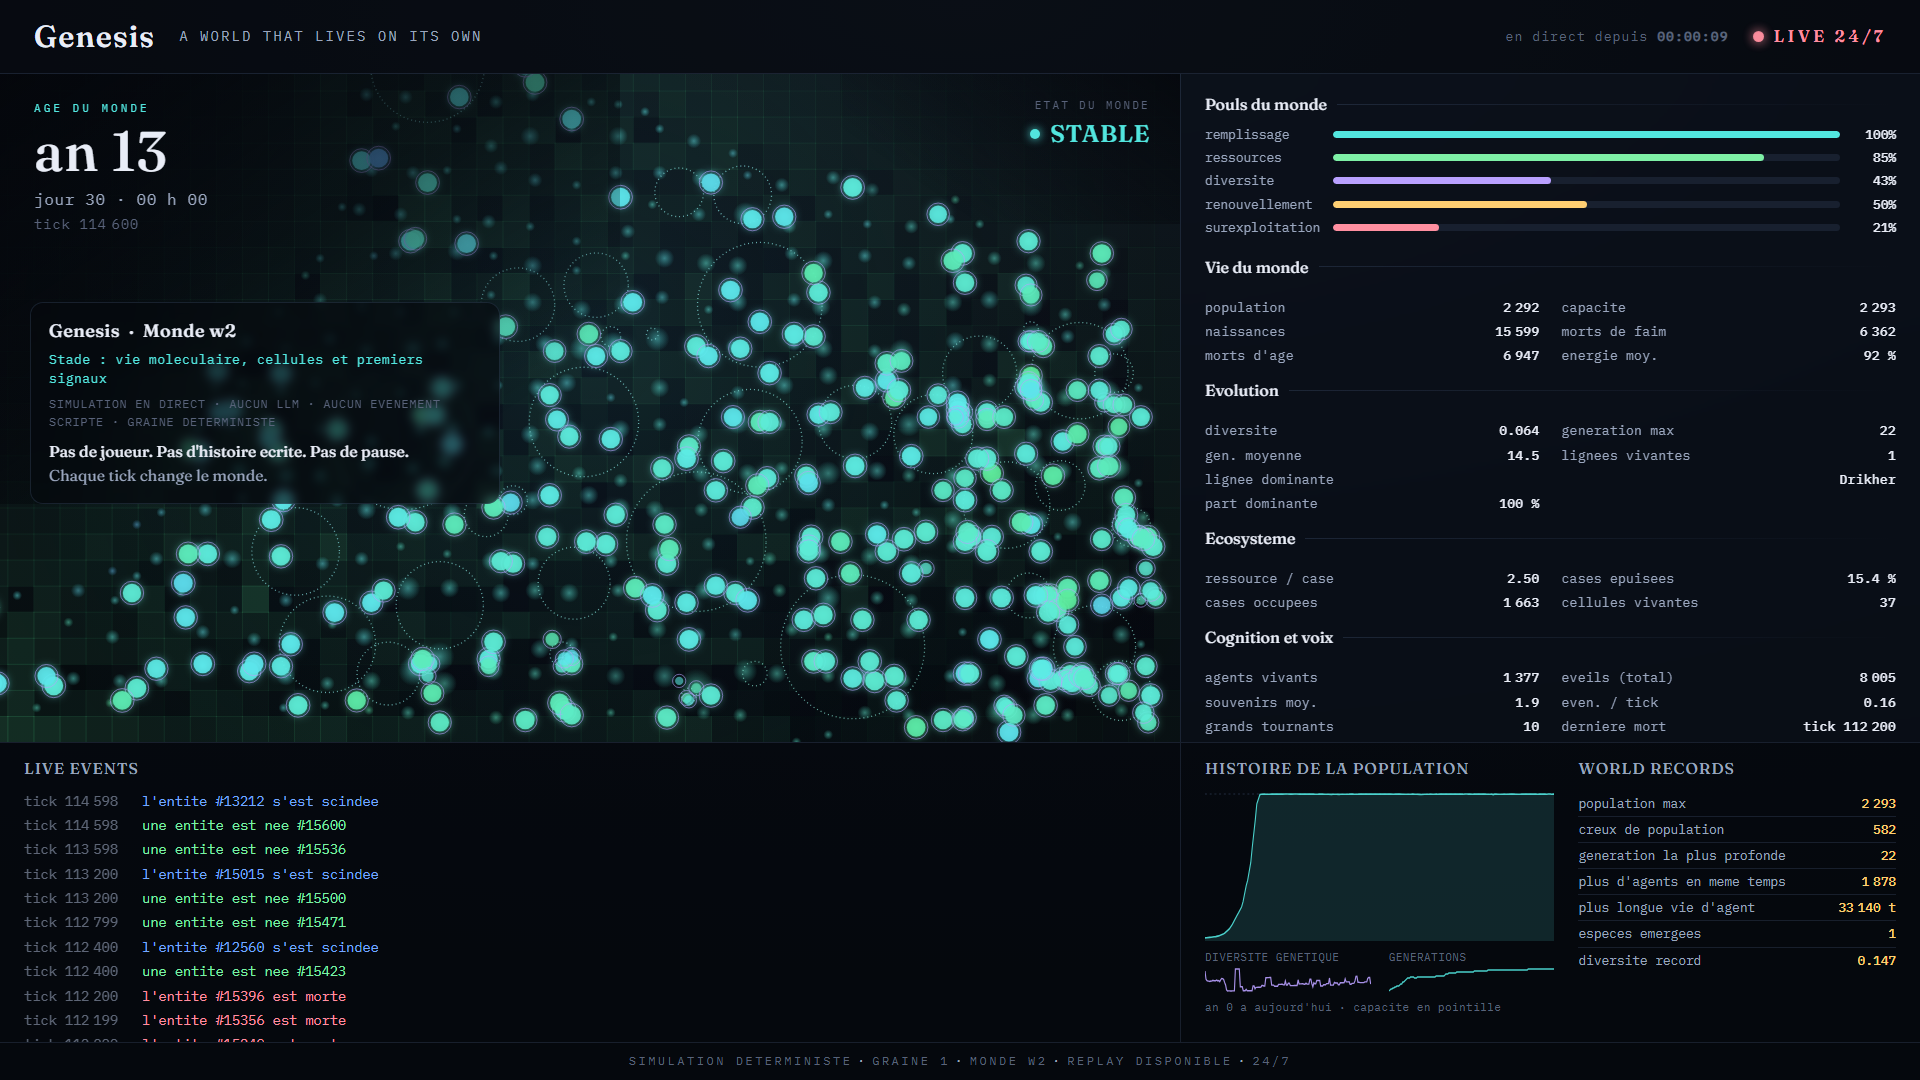
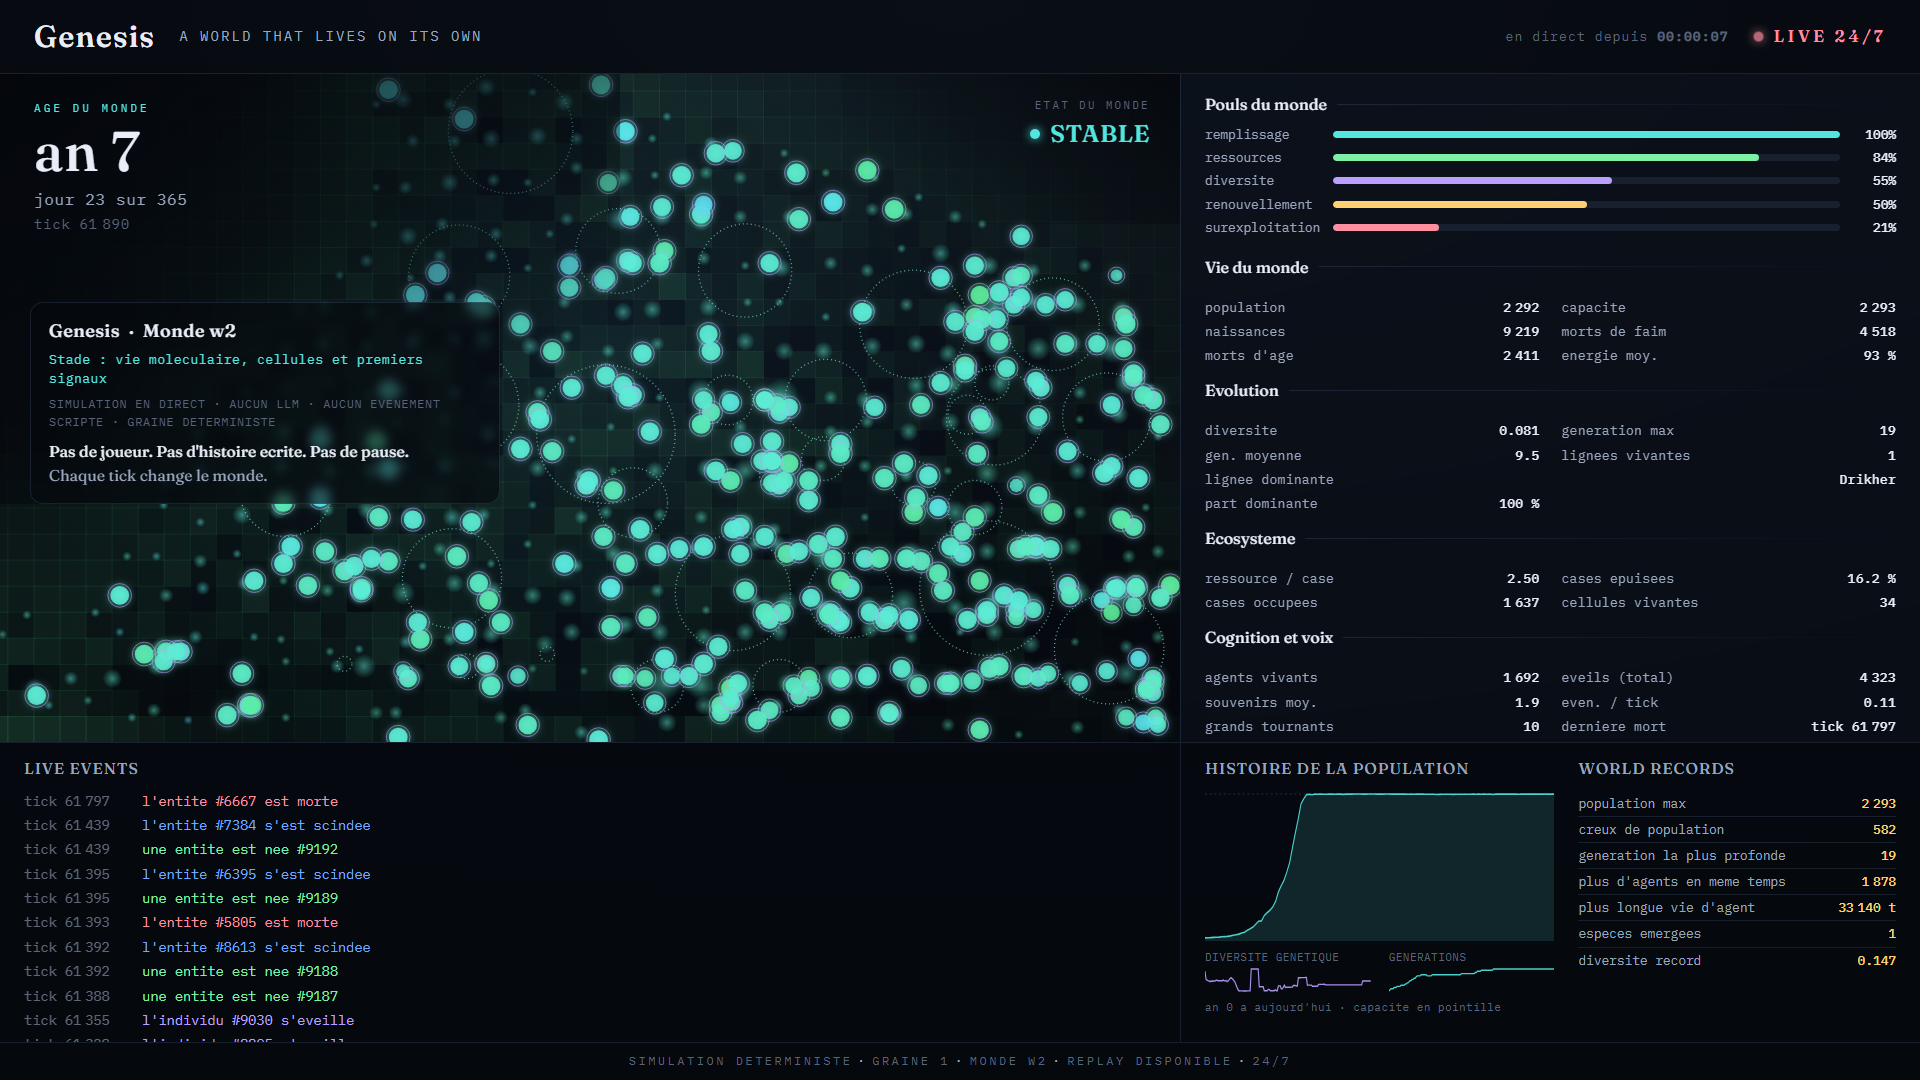
serve : avancer par petits pas paces, l'overlay bouge en continu
Le probleme : `serve` faisait tourner une tranche entiere (4000 ticks) puis
dormait ~une minute pour tenir la cadence, puis reecrivait les pages. Vu de
l'overlay, le monde etait fige la plupart du temps, comme bloque a la fin.

- La boucle de `serve` avance maintenant par pas d'environ une seconde de
  temps-monde (`--rate`, defaut 30 ticks/s reels ; 0 = a fond), pace chaque
  pas, et reecrit `live.json` / `scene.json` / `records.json` a chaque pas
  (peu couteux). Les pages HTML lourdes restent espacees (`--pages-every`,
  defaut 15 s).
- `Sim::run` gagne `checkpoint: bool` : `serve` avance sans ecrire un
  instantane a chaque pas (seulement ceux de l'intervalle) ; `run` et
  `continue` gardent l'instantane final exact.
- `write_world_pages` ecrit un instantane au tick courant : meta, journal et
  instantane restent coherents meme quand `serve` s'arrete entre deux
  intervalles, et c'est ce que `replay` compare. Verifie : `run(60k) +
  serve(--for 8k)` puis `replay` deterministe OK ; 1 vs 8 threads
  byte-identique ; 20 tests verts.
- `live.rs` : `derniere naissance` / `derniere mort` deviennent monotones
  (on repart du `live.json` precedent) et balaient toute la fenetre de
  frames, plus seulement les 12 dernieres : un plateau calme ne remet plus
  le compteur a zero.
- `--rate` defaut 30 (un monde 24/24 se regarde), `--chunk` devient
  `--step` (l'ancien nom reste accepte).

diff --git a/crates/genesis-cli/src/main.rs b/crates/genesis-cli/src/main.rs
@@ -209,10 +209,11 @@ genesis, Nodyx Genesis 0.0.1
       Reprend un monde depuis son dernier instantane et le fait avancer de T ticks.
       Le journal et la serie temporelle continuent ; la scene montre le monde recent.
 
-  genesis serve <dossier-monde> [--chunk <N>] [--for <T>] [--rate <ticks/s>] [--port <P>]
-      Fait tourner un monde en continu, en refaisant les pages a chaque tranche.
-      Ouvre index.html dans un navigateur et rafraichis. Ctrl-C pour arreter.
-      Avec --port, sert le monde en http (overlay du direct : /stream.html).
+  genesis serve <dossier-monde> [--rate <ticks/s>] [--port <P>] [--for <T>] [--step <N>]
+      Fait tourner un monde en continu, en avancant par petits pas paces (--rate,
+      defaut 30 ticks/s reels ; 0 = a fond). Avec --port, sert le monde en http :
+      l'overlay du direct est sur http://localhost:<P>/stream.html (source OBS).
+      Sinon, ouvre index.html et rafraichis. Ctrl-C pour arreter.
 
   genesis replay <dossier-monde>
       Rejoue le monde depuis sa graine et verifie l'etat final. Deterministe : OK ou DIFF.
@@ -284,7 +285,7 @@ fn cmd_run(flags: &HashMap<String, String>) -> std::io::Result<()> {
 
     // Fenetre "genese" : on echantillonne quatre fois plus fin sur les premiers ticks, la ou
     // deux entites deviennent une lignee. En `run` on garde toutes les frames.
-    sim.run(&mut world, &cfg, &wdir, ticks, frame_every, 4000.min(ticks), usize::MAX)?;
+    sim.run(&mut world, &cfg, &wdir, ticks, frame_every, 4000.min(ticks), usize::MAX, true)?;
 
     let awoke_total = sim.lives.len() as u64;
     write_world_pages(
@@ -339,7 +340,9 @@ impl Sim {
 
     /// Fait tourner `ticks` ticks, en appendant au journal et en ecrivant les instantanes.
     /// `max_frames` borne le nombre de frames gardees (une fenetre glissante pour `continue`,
-    /// `usize::MAX` pour `run`).
+    /// `usize::MAX` pour `run`). `checkpoint` : ecrire un instantane exactement au dernier tick
+    /// (vrai pour `run` / `continue` ; faux quand `serve` avance par petits pas, ou l'on ne
+    /// veut pas un fichier d'instantane toutes les secondes, seulement ceux de l'intervalle).
     #[allow(clippy::too_many_arguments)]
     fn run(
         &mut self,
@@ -350,6 +353,7 @@ impl Sim {
         frame_every: u64,
         genesis_window: u64,
         max_frames: usize,
+        checkpoint: bool,
     ) -> std::io::Result<()> {
         let tps = cfg.time.target_ticks_per_real_second;
         let series_every = cfg.persistence.series_every.max(1);
@@ -489,7 +493,10 @@ impl Sim {
         }
 
         // Instantane final exactement au dernier tick, pour que replay puisse comparer.
-        wdir.write_snapshot(world)?;
+        // En pas-a-pas (`serve`), on s'en remet aux instantanes de l'intervalle.
+        if checkpoint {
+            wdir.write_snapshot(world)?;
+        }
         self.frames.push(project(world, cfg, tps, &since_frame));
         while self.frames.len() > max_frames {
             self.frames.remove(0);
@@ -563,6 +570,11 @@ fn write_world_pages(
             .then(b.memories.len().cmp(&a.memories.len()))
             .then(agent_span(b).cmp(&agent_span(a)))
     });
+
+    // Un instantane exactement au tick courant : meta, journal et instantane restent
+    // coherents, y compris quand `serve` avance par petits pas sans checkpoint. C'est aussi
+    // ce que `replay` compare. (Pour `run`, c'est le meme fichier que celui deja ecrit.)
+    wdir.write_snapshot(world)?;
 
     let meta = WorldMeta {
         seed,
@@ -732,7 +744,7 @@ fn cmd_continue(
 
     let mut r = Resume::load(&out)?;
     let from_tick = r.world.tick;
-    r.sim.run(&mut r.world, &r.cfg, &r.wdir, ticks, frame_every, 0, CONTINUE_FRAME_WINDOW)?;
+    r.sim.run(&mut r.world, &r.cfg, &r.wdir, ticks, frame_every, 0, CONTINUE_FRAME_WINDOW, true)?;
 
     println!(
         "Monde {} repris : {} -> {} ticks (+{})",
@@ -753,28 +765,33 @@ fn cmd_serve(
 ) -> std::io::Result<()> {
     let out = resume_path(flags, positional, "genesis serve <dossier-monde>")?;
     let frame_every = resume_frame_every(flags);
-    let chunk: u64 = flags
-        .get("chunk")
+    let limit: Option<u64> = flags.get("for").and_then(|s| s.parse().ok());
+    // Cadence voulue, en ticks par seconde reelle. Un monde qui tourne 24/24 se regarde :
+    // le defaut est lent. `--rate 0` = a fond.
+    let rate: f64 = flags.get("rate").and_then(|s| s.parse().ok()).unwrap_or(30.0);
+    // Pas d'avancement : environ une seconde de temps-monde par tour de boucle, pour que
+    // l'overlay (qui relit live.json toutes les 3 s) voie le monde bouger en continu.
+    let step: u64 = flags
+        .get("step")
+        .or_else(|| flags.get("chunk"))
         .and_then(|s| s.parse().ok())
         .filter(|&n| n > 0)
-        .unwrap_or(4000);
-    let limit: Option<u64> = flags.get("for").and_then(|s| s.parse().ok());
-    // Ticks par seconde reelle voulus. 0 = a fond.
-    let rate: f64 = flags.get("rate").and_then(|s| s.parse().ok()).unwrap_or(0.0);
-    // On ne refait pas les pages a chaque tranche : au plus une fois toutes ces secondes.
+        .unwrap_or_else(|| if rate > 0.0 { (rate.round() as u64).max(1) } else { 400 });
+    // Les pages lourdes (view / series / lives / index) : au plus une fois toutes ces secondes.
     let pages_every: f64 = flags
         .get("pages-every")
         .and_then(|s| s.parse().ok())
-        .unwrap_or(10.0);
+        .unwrap_or(15.0);
     // Serveur de fichiers pour l'overlay du direct. 0 (defaut) = coupe.
     let port: u16 = flags.get("port").and_then(|s| s.parse().ok()).unwrap_or(0);
 
     let mut r = Resume::load(&out)?;
     let start = r.world.tick;
     println!(
-        "Monde {} en marche depuis le tick {}. Ctrl-C pour arreter.",
+        "Monde {} en marche depuis le tick {} ({} ticks/s reels). Ctrl-C pour arreter.",
         out.display(),
-        start
+        start,
+        if rate > 0.0 { format!("{rate:.0}") } else { "max".into() },
     );
     println!("Ouvre {}", r.wdir.root.join("index.html").display());
     if port > 0 {
@@ -784,44 +801,49 @@ fn cmd_serve(
         }
     }
 
-    let mut last_pages = std::time::Instant::now()
-        - std::time::Duration::from_secs_f64(pages_every.max(0.0) + 1.0);
+    let pages_gap = std::time::Duration::from_secs_f64(pages_every.max(0.5));
+    let mut last_pages = std::time::Instant::now() - pages_gap * 2;
+    let mut last_beat = std::time::Instant::now() - std::time::Duration::from_secs(9);
     loop {
         let t0 = std::time::Instant::now();
         let before = r.world.tick;
         r.sim
-            .run(&mut r.world, &r.cfg, &r.wdir, chunk, frame_every, 0, CONTINUE_FRAME_WINDOW)?;
+            .run(&mut r.world, &r.cfg, &r.wdir, step, frame_every, 0, CONTINUE_FRAME_WINDOW, false)?;
 
-        let done = r.world.entities.is_empty()
-            || limit.is_some_and(|l| r.world.tick - start >= l);
-        if done || last_pages.elapsed().as_secs_f64() >= pages_every {
+        // L'overlay : petit etat vivant + derniere image, a chaque pas (peu couteux).
+        r.write_live_light()?;
+
+        let extinct = r.world.entities.is_empty();
+        let limit_hit = limit.is_some_and(|l| r.world.tick - start >= l);
+
+        if extinct || limit_hit || last_pages.elapsed() >= pages_gap {
             r.write_pages(false)?;
             last_pages = std::time::Instant::now();
         }
 
-        let (agents_alive, _) = r.world.agent_stats();
-        println!(
-            "  tick {:>10}  pop {:>5}  agents {:>5}  gen {:>3}  ({:.1}s)",
-            r.world.tick,
-            r.world.population(),
-            agents_alive,
-            r.sim.series.last().map(|s| s.max_generation).unwrap_or(0),
-            t0.elapsed().as_secs_f64(),
-        );
+        if extinct || limit_hit || last_beat.elapsed().as_secs_f64() >= 5.0 {
+            let (agents_alive, _) = r.world.agent_stats();
+            println!(
+                "  tick {:>10}  pop {:>5}  agents {:>5}  gen {:>3}",
+                r.world.tick,
+                r.world.population(),
+                agents_alive,
+                r.sim.series.last().map(|s| s.max_generation).unwrap_or(0),
+            );
+            last_beat = std::time::Instant::now();
+        }
 
-        if r.world.entities.is_empty() {
+        if extinct {
             println!("Le monde s'est eteint au tick {}.", r.world.tick);
             break;
         }
-        if let Some(l) = limit {
-            if r.world.tick - start >= l {
-                break;
-            }
+        if limit_hit {
+            break;
         }
+
         // Cadence : on attend pour ne pas depasser `rate` ticks par seconde reelle.
         if rate > 0.0 {
-            let advanced = (r.world.tick - before) as f64;
-            let target = advanced / rate;
+            let target = (r.world.tick - before) as f64 / rate;
             let spent = t0.elapsed().as_secs_f64();
             if target > spent {
                 std::thread::sleep(std::time::Duration::from_secs_f64(target - spent));
@@ -907,13 +929,47 @@ impl Resume {
         Ok(Resume { wdir, cfg, seed: meta.seed, world, sim, awoke_before, from_tick })
     }
 
-    fn write_pages(&self, verbose: bool) -> std::io::Result<()> {
-        let new_awoke = self
-            .sim
+    /// Nombre d'eveils sur ce segment (pour `meta.agents_awoke_total`).
+    fn new_awoke(&self) -> u64 {
+        self.sim
             .lives
             .values()
             .filter(|l| l.awoke_tick >= self.from_tick)
-            .count() as u64;
+            .count() as u64
+    }
+
+    /// Le strict necessaire a l'overlay, entre deux pas de `serve` : `live.json`,
+    /// `scene.json`, `records.json`. Peu couteux, appele en continu ; les pages HTML
+    /// lourdes restent l'affaire de `write_pages`.
+    fn write_live_light(&self) -> std::io::Result<()> {
+        let span =
+            |l: &AgentLife| l.ended_tick.unwrap_or(self.world.tick).saturating_sub(l.awoke_tick);
+        let mut lives_vec: Vec<AgentLife> = self.sim.lives.values().cloned().collect();
+        lives_vec.sort_by(|a, b| span(b).cmp(&span(a)).then(a.id.cmp(&b.id)));
+        lives_vec.truncate(LIVES_FILE_CAP);
+        let world_name = self
+            .wdir
+            .root
+            .file_name()
+            .map(|s| s.to_string_lossy().into_owned())
+            .unwrap_or_else(|| format!("w{}", self.seed));
+        live::write_live(
+            &self.wdir,
+            &self.world,
+            &self.cfg,
+            self.seed,
+            self.awoke_before + self.new_awoke(),
+            &world_name,
+            &self.sim.frames,
+            &self.sim.series,
+            &self.sim.notable,
+            &lives_vec,
+        )?;
+        Ok(())
+    }
+
+    fn write_pages(&self, verbose: bool) -> std::io::Result<()> {
+        let new_awoke = self.new_awoke();
         write_world_pages(
             &self.world,
             &self.cfg,

diff --git a/crates/genesis-cli/src/live.rs b/crates/genesis-cli/src/live.rs
@@ -292,19 +292,33 @@ pub fn write_live(
         .max(notable.iter().filter(|e| matches!(e.kind, EventKind::SpeciesEmerged { .. })).count() as u32);
     write_json(&wdir.root.join("records.json"), &rec)?;
 
-    // --- Le fil : les derniers evenements des dernieres frames, plus les grands tournants.
+    // --- Le fil : les derniers evenements de la fenetre de frames, plus les grands tournants.
+    // On garde `last_birth` / `last_death` monotones : la fenetre peut ne pas contenir de
+    // mort sur un intervalle calme (plateau de capacite), on repart alors du live.json d'avant.
+    #[derive(serde::Deserialize)]
+    struct PrevTicks {
+        #[serde(default)]
+        last_birth_tick: u64,
+        #[serde(default)]
+        last_death_tick: u64,
+    }
+    let prev: Option<PrevTicks> = read_json(&wdir.root.join("live.json"));
     let mut events: Vec<LiveEvent> = Vec::new();
-    let mut last_birth = 0u64;
-    let mut last_death = 0u64;
+    let mut last_birth = prev.as_ref().map(|p| p.last_birth_tick).unwrap_or(0);
+    let mut last_death = prev.as_ref().map(|p| p.last_death_tick).unwrap_or(0);
     let mut eveils = 0;
-    let from = frames.len().saturating_sub(12);
-    for f in &frames[from..] {
+    // Le fil ne montre que la queue recente ; les compteurs balaient toute la fenetre.
+    let tail = frames.len().saturating_sub(14);
+    for (i, f) in frames.iter().enumerate() {
         for e in f.events.iter() {
             if e.kind == "naissance" {
                 last_birth = last_birth.max(e.tick);
             }
             if e.kind == "mort" {
                 last_death = last_death.max(e.tick);
+            }
+            if i < tail {
+                continue;
             }
             if let Some((k, text)) = ev_label(e.kind, &e.subjects) {
                 // On borne les eveils : ils sont trop nombreux pour le fil.
